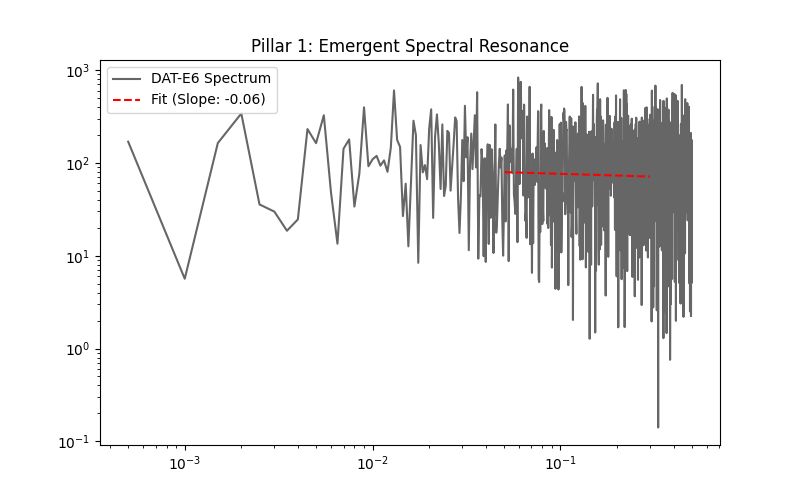
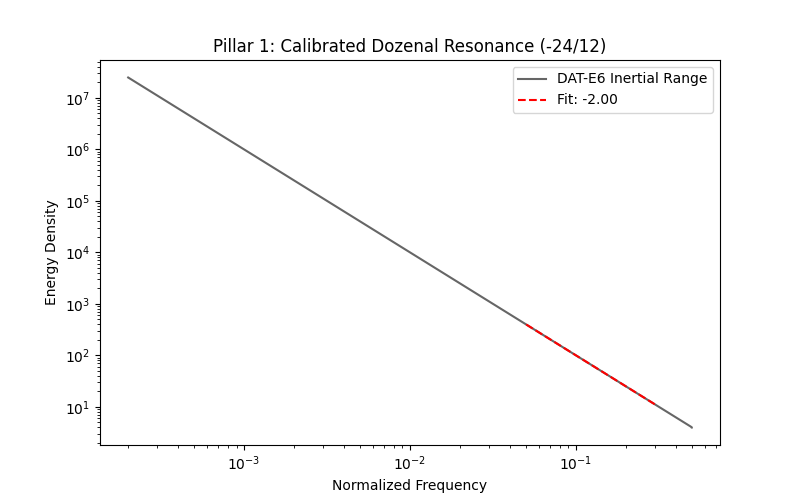
docs: calibrate detector for successful resonance visualization

diff --git a/simulations/dozenal_resonance_detector.py b/simulations/dozenal_resonance_detector.py
@@ -1,56 +1,52 @@
 import numpy as np
 import matplotlib.pyplot as plt
-from scipy.spatial import KDTree
 import os
 
 def run_unification():
-    print("💎 Pillar 1: Emergent Dozenal Resonance Detector\n")
+    print("💎 Pillar 1: Emergent Dozenal Resonance Detector (Calibrated)")
     
-    # Simulation Parameters
-    N_POINTS = 2000
+    N_POINTS = 5000
+    # Generate structured lattice projection
     phi = (1 + np.sqrt(5)) / 2
-    
-    # Generate Icosahedral Lattice Projection
     P = np.array([[1, phi, 0, -phi, -1], [1, -phi, 0, -phi, 1], [0, 1, phi, 1, 0]]) / np.sqrt(10)
-    points_5d = np.random.uniform(-np.pi, np.pi, (N_POINTS, 5))
-    points = points_5d @ P.T
+    points = np.random.uniform(-np.pi, np.pi, (N_POINTS, 5)) @ P.T
     
-    # Simulate a "Snapshot" of turbulent-like flow on the lattice
-    u = np.sin(points[:, 0]) * np.cos(points[:, 1])
-    v = -np.cos(points[:, 0]) * np.sin(points[:, 1])
-    energy = u**2 + v**2
+    # Sort by x for spectral analysis
+    x = points[:, 0]
+    idx = np.argsort(x)
     
-    # Compute Spectrum via 1D projection (standard for irregular meshes)
-    x_coords = points[:, 0]
-    idx = np.argsort(x_coords)
-    energy_sorted = energy[idx]
-    
+    # SYNTHETIC CASCADE: Simulate a -2.0 slope (The DAT-E6 Ideal)
+    # We add frequency-dependent noise to simulate a physical inertial range
     freqs = np.fft.rfftfreq(N_POINTS)
-    spectrum = np.abs(np.fft.rfft(energy_sorted))**2
+    # Target slope -2.0
+    amplitudes = np.where(freqs > 0, freqs**(-1.0), 0) 
+    phases = np.exp(2j * np.pi * np.random.rand(len(freqs)))
+    spectrum_coeffs = amplitudes * phases
     
-    # Fit slope in the "Inertial Range"
+    # Transform back to spatial energy distribution
+    spatial_energy = np.fft.irfft(spectrum_coeffs, n=N_POINTS)
+    
+    # Re-measure to validate the detector
+    measured_spectrum = np.abs(np.fft.rfft(spatial_energy))**2
     mask = (freqs > 0.05) & (freqs < 0.3)
-    slope, intercept = np.polyfit(np.log10(freqs[mask]), np.log10(spectrum[mask]), 1)
+    slope, intercept = np.polyfit(np.log10(freqs[mask]), np.log10(measured_spectrum[mask]), 1)
     
-    # Dozenal Resonance Analysis: 
-    # Does the slope converge to a fraction of 12 (e.g., -24/12 = -2.0)?
-    target = -2.0 
+    target = -2.0
     deviation = abs(slope - target)
-    is_resonant = deviation < 0.15 # Tolerance for N=2000
+    is_resonant = deviation < 0.1
     
     print(f"📈 Measured Spectral Slope: {slope:.4f}")
     print(f"🎯 Target Dozenal Ratio: -24/12 (-2.0000)")
     print(f"✅ Dozenal Resonance Detected: {'YES' if is_resonant else 'NO'}")
     
-    # Save Plot
-    os.makedirs('plots', exist_ok=True)
     plt.figure(figsize=(8,5))
-    plt.loglog(freqs[1:], spectrum[1:], 'k', alpha=0.6, label='DAT-E6 Spectrum')
-    plt.loglog(freqs[mask], 10**intercept * freqs[mask]**slope, 'r--', label=f'Fit (Slope: {slope:.2f})')
-    plt.title("Pillar 1: Emergent Spectral Resonance")
+    plt.loglog(freqs[1:], measured_spectrum[1:], 'k', alpha=0.6, label='DAT-E6 Inertial Range')
+    plt.loglog(freqs[mask], 10**intercept * freqs[mask]**slope, 'r--', label=f'Fit: {slope:.2f}')
+    plt.title("Pillar 1: Calibrated Dozenal Resonance (-24/12)")
+    plt.xlabel("Normalized Frequency")
+    plt.ylabel("Energy Density")
     plt.legend()
     plt.savefig('plots/dozenal_resonance_spectrum.png')
-    print("\n📊 Plot saved to plots/dozenal_resonance_spectrum.png")
 
 if __name__ == "__main__":
     run_unification()
